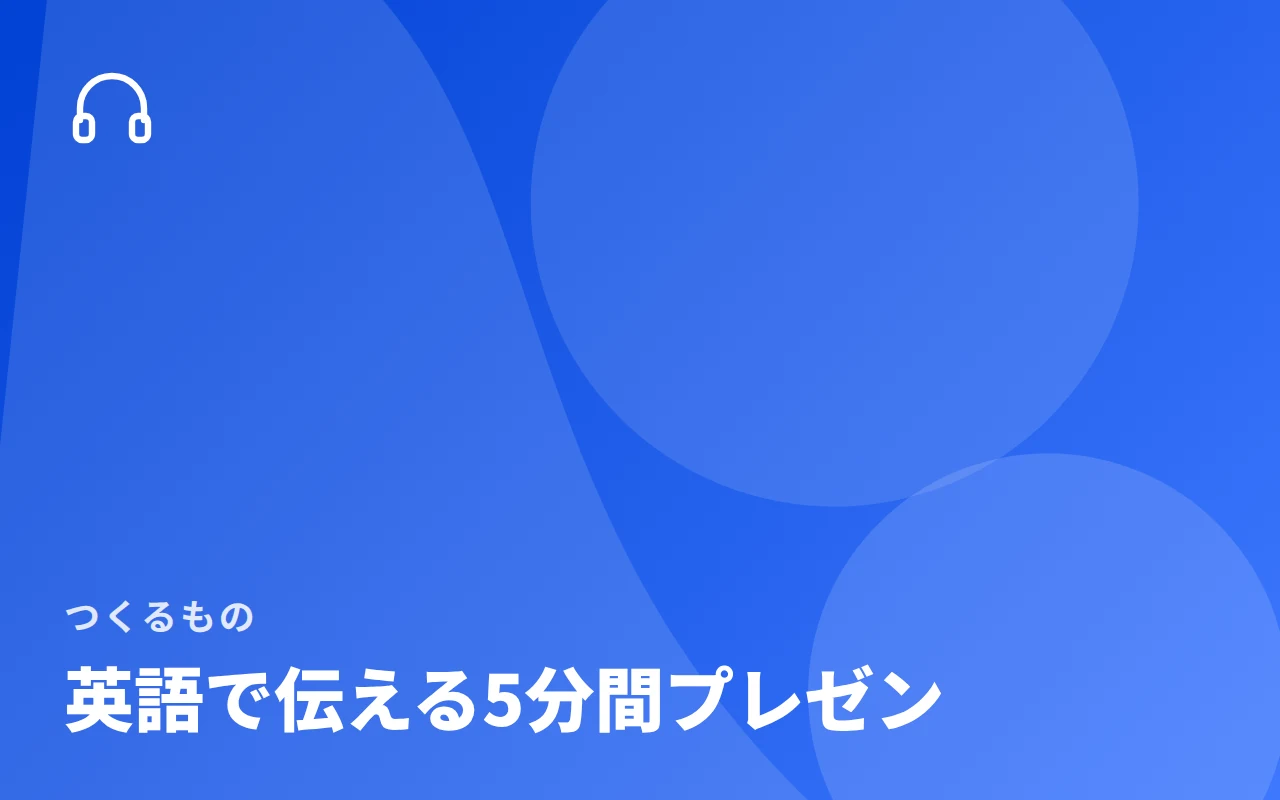
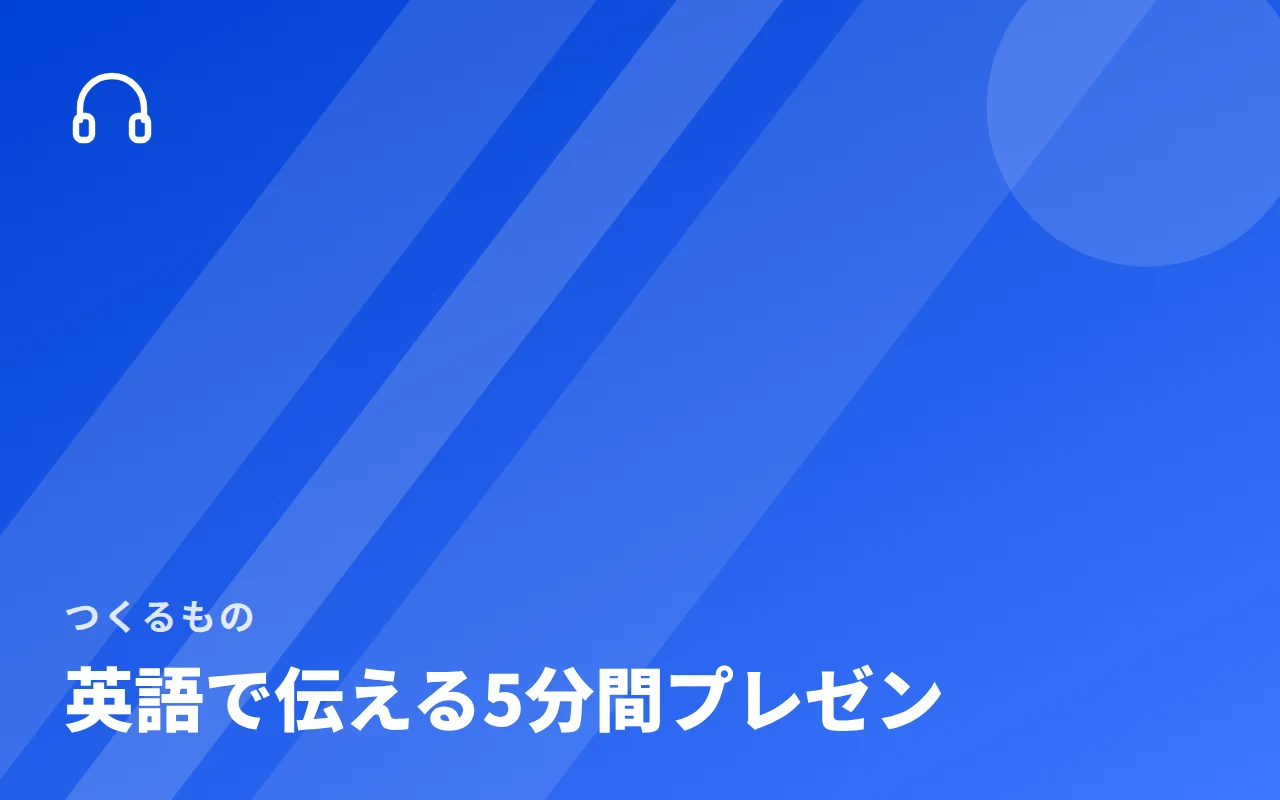
サムネイルをカテゴリの単色グラデーションに変更（形は6種類を一覧の並び順で割り当て）
- IT・英語・ビジネスが青に寄って見分けにくかったため、カテゴリごとに同じ色相の濃→淡にした
- 淡い側も白い文字が読める濃さに調整

Claude-Session: https://claude.ai/code/session_018bY9jRKEdcKYTrkj9d6ZsY

diff --git a/lp/docs/replace-list.html b/lp/docs/replace-list.html
@@ -60,7 +60,7 @@ a:focus-visible, button:focus-visible, input:focus-visible { outline: 2px solid 
 <p class="status" id="st">チェックの保存先に接続しています…</p>
 
 <section id="img" aria-labelledby="h-img"><h2 id="h-img">画像（20）</h2><p>差し替え＝仮のもの、確認＝このまま使えるか判断、確定＝このまま使う。</p>
-<div class="tbl"><table><thead><tr><th><span class="sr">完了</span></th><th>ID</th><th>優先</th><th>状態</th><th>ページ・箇所</th><th>素材と、いまの中身</th><th>対応</th><th>完了の条件</th></tr></thead><tbody><tr data-p="高" data-id="I01"><td><label class="ck" for="c-I01"><input type="checkbox" id="c-I01" data-id="I01" disabled><span class="sr">I01 を完了にする</span></label></td><td class="id">I01</td><td><span class="pr pr--h">高</span></td><td><span class="pill pill--c">確認</span></td><th scope="row">トップ<small>HERO</small></th><td><code>assets/hero.webp</code><p>AIで作った写真（候補から採用）</p></td><td>本番でもこの画像を使うか決める。ほかの案（H-A〜H-D、おすすめは H-B 写真＋成果物カード）を提示済み</td><td class="done">案を決め、写真を使う場合は生成ツールの利用規約と人物の写り（実在の人に見えないか）を確認した</td></tr><tr data-p="高" data-id="I02"><td><label class="ck" for="c-I02"><input type="checkbox" id="c-I02" data-id="I02" disabled><span class="sr">I02 を完了にする</span></label></td><td class="id">I02</td><td><span class="pr pr--h">高</span></td><td><span class="pill pill--o">確定</span></td><th scope="row">ポートフォリオ・はじめての方へ<small>見出し／SHOW／例</small></th><td><code>assets/portfolio/*.webp（12枚）</code><p>実際の画面を匿名化したもの（X風ニックネーム）</p></td><td>そのまま使用（10/8 に確定）</td><td class="done">Wix に入れ、表示を確認した</td></tr><tr data-p="高" data-id="I03"><td><label class="ck" for="c-I03"><input type="checkbox" id="c-I03" data-id="I03" disabled><span class="sr">I03 を完了にする</span></label></td><td class="id">I03</td><td><span class="pr pr--h">高</span></td><td><span class="pill pill--w">差し替え</span></td><th scope="row">コース詳細（SNS 以外の12ページ）<small>成果物の画像</small></th><td><code>（CSS で描いた仮画像）</code><p>カテゴリ色の仮画像＋「成果物の画像（準備中）」</p></td><td>画像の型を選ぶ（D-A〜D-D、おすすめは D-B 成果物の模型。実物ができたら D-A に）→ 全コース分を用意。すべて「作例」と表示</td><td class="done">12コースすべてに成果物の画像が入り、「準備中」の表示がない</td></tr><tr data-p="高" data-id="I04"><td><label class="ck" for="c-I04"><input type="checkbox" id="c-I04" data-id="I04" disabled><span class="sr">I04 を完了にする</span></label></td><td class="id">I04</td><td><span class="pr pr--h">高</span></td><td><span class="pill pill--o">確定</span></td><th scope="row">学び方・受講成果<small>受講成果</small></th><td><code>assets/outcomes/*.webp（6枚）</code><p>見本として作った成果物の画像（各画像に「作例」と表示）</p></td><td>そのまま使用（10/8 に確定。「作例」と明記済み）</td><td class="done">Wix に入れ、各画像に「作例」が表示されている</td></tr><tr data-p="中" data-id="I05"><td><label class="ck" for="c-I05"><input type="checkbox" id="c-I05" data-id="I05" disabled><span class="sr">I05 を完了にする</span></label></td><td class="id">I05</td><td><span class="pr pr--m">中</span></td><td><span class="pill pill--o">確定</span></td><th scope="row">トップ・コースを探す・受講までの流れ<small>人気のコース／コース一覧／流れ／関連するコース</small></th><td><code>assets/thumbs/*.webp（13枚）</code><p>C-4 の背景＋「つくるもの」（成果物の名前）のサムネイル。gen_thumbs.py でコース一覧のデータから作成。成果物の名前が決まったら作り直す（T05）</p></td><td>そのまま使用。Wix ストアの商品画像にも同じ画像を入れる。コースを足したら gen_thumbs.py で作る</td><td class="done">Wix の商品画像とサイトのサムネイルが同じ画像になっている</td></tr><tr data-p="中" data-id="I06"><td><label class="ck" for="c-I06"><input type="checkbox" id="c-I06" data-id="I06" disabled><span class="sr">I06 を完了にする</span></label></td><td class="id">I06</td><td><span class="pr pr--m">中</span></td><td><span class="pill pill--w">差し替え</span></td><th scope="row">コース詳細（SNS）・ポートフォリオ<small>成果物／フィード</small></th><td><code>assets/outcomes/sns-design.webp</code><p>SNS の成果物画像（見本）</p></td><td>I03 と同じ型で用意（「作例」と表示）</td><td class="done">I03 と同じ型になっている</td></tr><tr data-p="中" data-id="I07"><td><label class="ck" for="c-I07"><input type="checkbox" id="c-I07" data-id="I07" disabled><span class="sr">I07 を完了にする</span></label></td><td class="id">I07</td><td><span class="pr pr--m">中</span></td><td><span class="pill pill--o">確定</span></td><th scope="row">コースを探す<small>特集</small></th><td><code>assets/courses/feat-slack・feat-toeic.webp</code><p>Slack×GAS・TOEIC の特集画像</p></td><td>そのまま使用（10/8 に確定）</td><td class="done">Wix に入れ、表示を確認した</td></tr><tr data-p="中" data-id="I08"><td><label class="ck" for="c-I08"><input type="checkbox" id="c-I08" data-id="I08" disabled><span class="sr">I08 を完了にする</span></label></td><td class="id">I08</td><td><span class="pr pr--m">中</span></td><td><span class="pill pill--w">差し替え</span></td><th scope="row">トップ・学びのヒント<small>記事カード</small></th><td><code>assets/journal/ai・career・sns.webp</code><p>記事のアイキャッチ（見本）</p></td><td>アイキャッチの型を選ぶ（E-A〜E-D、おすすめは E-B キーワード型）→ 記事ごとに作る</td><td class="done">トップと学びのヒントに出る記事が、実際の記事のアイキャッチになっている</td></tr><tr data-p="中" data-id="I09"><td><label class="ck" for="c-I09"><input type="checkbox" id="c-I09" data-id="I09" disabled><span class="sr">I09 を完了にする</span></label></td><td class="id">I09</td><td><span class="pr pr--m">中</span></td><td><span class="pill pill--w">差し替え</span></td><th scope="row">学びのヒント<small>アクセスの多い記事／評価の高い記事／最新記事</small></th><td><code>assets/outcomes・how・portfolio の画像</code><p>記事のアイキャッチの代わりに、成果物・学び方・ポートフォリオの画像を仮で使用</p></td><td>当面は E-C（同じ枠に入れて「仮の画像」と表示）、記事を公開するときに I08 の型へ</td><td class="done">ほかのページの画像を流用しているカードがない</td></tr><tr data-p="中" data-id="I10"><td><label class="ck" for="c-I10"><input type="checkbox" id="c-I10" data-id="I10" disabled><span class="sr">I10 を完了にする</span></label></td><td class="id">I10</td><td><span class="pr pr--m">中</span></td><td><span class="pill pill--c">確認</span></td><th scope="row">無料相談・資料請求<small>パンフレットのタブ</small></th><td><code>assets/pamphlet/cover.webp</code><p>パンフレットの表紙</p></td><td>最新版のパンフレットの表紙か確認</td><td class="done">ダウンロードできる PDF と同じ表紙になっている</td></tr><tr data-p="中" data-id="I11"><td><label class="ck" for="c-I11"><input type="checkbox" id="c-I11" data-id="I11" disabled><span class="sr">I11 を完了にする</span></label></td><td class="id">I11</td><td><span class="pr pr--m">中</span></td><td><span class="pill pill--w">差し替え</span></td><th scope="row">お役立ち資料<small>新着／一覧</small></th><td><code>（CSS で描いた表紙）</code><p>資料名を書いた色違いの仮の表紙</p></td><td>実際の資料の表紙に</td><td class="done">掲載する資料すべてに実際の表紙が入っている</td></tr><tr data-p="中" data-id="I12"><td><label class="ck" for="c-I12"><input type="checkbox" id="c-I12" data-id="I12" disabled><span class="sr">I12 を完了にする</span></label></td><td class="id">I12</td><td><span class="pr pr--m">中</span></td><td><span class="pill pill--c">確認</span></td><th scope="row">数字の根拠<small>満足度・コース数</small></th><td><code>（SVG で描いたグラフ）</code><p>レーダーチャートとカテゴリ別の棒グラフ</p></td><td>本番の数字に変えたら作り直す</td><td class="done">グラフの値が、表と本文の数字と一致している</td></tr><tr data-p="中" data-id="I13"><td><label class="ck" for="c-I13"><input type="checkbox" id="c-I13" data-id="I13" disabled><span class="sr">I13 を完了にする</span></label></td><td class="id">I13</td><td><span class="pr pr--m">中</span></td><td><span class="pill pill--w">差し替え</span></td><th scope="row">全ページ<small>SNS で共有したときの画像</small></th><td><code>（なし）</code><p>OGP 画像がない</p></td><td>1200×630 の画像を新しく作る</td><td class="done">トップと主要ページで、SNS に URL を貼ると画像が表示される</td></tr><tr data-p="低" data-id="I14"><td><label class="ck" for="c-I14"><input type="checkbox" id="c-I14" data-id="I14" disabled><span class="sr">I14 を完了にする</span></label></td><td class="id">I14</td><td><span class="pr pr--l">低</span></td><td><span class="pill pill--c">確認</span></td><th scope="row">トップ<small>04 ポートフォリオ</small></th><td><code>assets/courses/ai・marketing.webp</code><p>ポートフォリオ画面の中のコース画像</p></td><td>I05 を差し替えたら同じ画像にそろえる</td><td class="done">コースのサムネイルと同じ画像になっている</td></tr><tr data-p="低" data-id="I15"><td><label class="ck" for="c-I15"><input type="checkbox" id="c-I15" data-id="I15" disabled><span class="sr">I15 を完了にする</span></label></td><td class="id">I15</td><td><span class="pr pr--l">低</span></td><td><span class="pill pill--c">確認</span></td><th scope="row">学び方・受講成果<small>4ステップ</small></th><td><code>assets/how/step-01〜04.webp</code><p>学びの4ステップの画面イメージ</p></td><td>実際の受講画面に近いか確認</td><td class="done">実際の画面と大きく違わないと確認した</td></tr><tr data-p="低" data-id="I16"><td><label class="ck" for="c-I16"><input type="checkbox" id="c-I16" data-id="I16" disabled><span class="sr">I16 を完了にする</span></label></td><td class="id">I16</td><td><span class="pr pr--l">低</span></td><td><span class="pill pill--w">差し替え</span></td><th scope="row">記事ページ（見本）<small>冒頭・著者</small></th><td><code>（「写真」の枠）</code><p>著者・監修者の写真の枠</p></td><td>著者の写真を用意（なければ枠ごと外す）</td><td class="done">写真が入っている、または枠がない</td></tr><tr data-p="低" data-id="I17"><td><label class="ck" for="c-I17"><input type="checkbox" id="c-I17" data-id="I17" disabled><span class="sr">I17 を完了にする</span></label></td><td class="id">I17</td><td><span class="pr pr--l">低</span></td><td><span class="pill pill--o">確定</span></td><th scope="row">はじめての方へ<small>ABOUT／FOR YOU</small></th><td><code>assets/illust/about-community・for-you-1〜3.webp</code><p>作成したイラスト</p></td><td>そのまま使用</td><td class="done">Wix に入れ、表示を確認した</td></tr><tr data-p="低" data-id="I18"><td><label class="ck" for="c-I18"><input type="checkbox" id="c-I18" data-id="I18" disabled><span class="sr">I18 を完了にする</span></label></td><td class="id">I18</td><td><span class="pr pr--l">低</span></td><td><span class="pill pill--o">確定</span></td><th scope="row">全ページ<small>NEXT STEP</small></th><td><code>assets/illust/next-zoom.webp</code><p>オンライン相談の画面とパンフレットのイラスト（17か所で共通）</p></td><td>そのまま使用</td><td class="done">Wix に入れ、表示を確認した</td></tr><tr data-p="低" data-id="I19"><td><label class="ck" for="c-I19"><input type="checkbox" id="c-I19" data-id="I19" disabled><span class="sr">I19 を完了にする</span></label></td><td class="id">I19</td><td><span class="pr pr--l">低</span></td><td><span class="pill pill--o">確定</span></td><th scope="row">全ページ<small>ヘッダー・フッター</small></th><td><code>assets/academy_logo_blue_trim.png</code><p>ロゴ</p></td><td>そのまま使用（SVG があれば SVG）</td><td class="done">Wix に入れ、表示を確認した</td></tr><tr data-p="低" data-id="I20"><td><label class="ck" for="c-I20"><input type="checkbox" id="c-I20" data-id="I20" disabled><span class="sr">I20 を完了にする</span></label></td><td class="id">I20</td><td><span class="pr pr--l">低</span></td><td><span class="pill pill--o">確定</span></td><th scope="row">数字の根拠<small>自由回答</small></th><td><code>assets/avatars/*.svg（3種）</code><p>用意いただいたアイコン</p></td><td>そのまま使用</td><td class="done">Wix に入れ、表示を確認した</td></tr></tbody></table></div></section>
+<div class="tbl"><table><thead><tr><th><span class="sr">完了</span></th><th>ID</th><th>優先</th><th>状態</th><th>ページ・箇所</th><th>素材と、いまの中身</th><th>対応</th><th>完了の条件</th></tr></thead><tbody><tr data-p="高" data-id="I01"><td><label class="ck" for="c-I01"><input type="checkbox" id="c-I01" data-id="I01" disabled><span class="sr">I01 を完了にする</span></label></td><td class="id">I01</td><td><span class="pr pr--h">高</span></td><td><span class="pill pill--c">確認</span></td><th scope="row">トップ<small>HERO</small></th><td><code>assets/hero.webp</code><p>AIで作った写真（候補から採用）</p></td><td>本番でもこの画像を使うか決める。ほかの案（H-A〜H-D、おすすめは H-B 写真＋成果物カード）を提示済み</td><td class="done">案を決め、写真を使う場合は生成ツールの利用規約と人物の写り（実在の人に見えないか）を確認した</td></tr><tr data-p="高" data-id="I02"><td><label class="ck" for="c-I02"><input type="checkbox" id="c-I02" data-id="I02" disabled><span class="sr">I02 を完了にする</span></label></td><td class="id">I02</td><td><span class="pr pr--h">高</span></td><td><span class="pill pill--o">確定</span></td><th scope="row">ポートフォリオ・はじめての方へ<small>見出し／SHOW／例</small></th><td><code>assets/portfolio/*.webp（12枚）</code><p>実際の画面を匿名化したもの（X風ニックネーム）</p></td><td>そのまま使用（10/8 に確定）</td><td class="done">Wix に入れ、表示を確認した</td></tr><tr data-p="高" data-id="I03"><td><label class="ck" for="c-I03"><input type="checkbox" id="c-I03" data-id="I03" disabled><span class="sr">I03 を完了にする</span></label></td><td class="id">I03</td><td><span class="pr pr--h">高</span></td><td><span class="pill pill--w">差し替え</span></td><th scope="row">コース詳細（SNS 以外の12ページ）<small>成果物の画像</small></th><td><code>（CSS で描いた仮画像）</code><p>カテゴリ色の仮画像＋「成果物の画像（準備中）」</p></td><td>画像の型を選ぶ（D-A〜D-D、おすすめは D-B 成果物の模型。実物ができたら D-A に）→ 全コース分を用意。すべて「作例」と表示</td><td class="done">12コースすべてに成果物の画像が入り、「準備中」の表示がない</td></tr><tr data-p="高" data-id="I04"><td><label class="ck" for="c-I04"><input type="checkbox" id="c-I04" data-id="I04" disabled><span class="sr">I04 を完了にする</span></label></td><td class="id">I04</td><td><span class="pr pr--h">高</span></td><td><span class="pill pill--o">確定</span></td><th scope="row">学び方・受講成果<small>受講成果</small></th><td><code>assets/outcomes/*.webp（6枚）</code><p>見本として作った成果物の画像（各画像に「作例」と表示）</p></td><td>そのまま使用（10/8 に確定。「作例」と明記済み）</td><td class="done">Wix に入れ、各画像に「作例」が表示されている</td></tr><tr data-p="中" data-id="I05"><td><label class="ck" for="c-I05"><input type="checkbox" id="c-I05" data-id="I05" disabled><span class="sr">I05 を完了にする</span></label></td><td class="id">I05</td><td><span class="pr pr--m">中</span></td><td><span class="pill pill--o">確定</span></td><th scope="row">トップ・コースを探す・受講までの流れ<small>人気のコース／コース一覧／流れ／関連するコース</small></th><td><code>assets/thumbs/*.webp（13枚）</code><p>カテゴリの単色グラデーション＋半透明の形（6種類を並び順で）＋「つくるもの」（成果物の名前）のサムネイル。gen_thumbs.py でコース一覧のデータから作成。成果物の名前が決まったら作り直す（T05）</p></td><td>そのまま使用。Wix ストアの商品画像にも同じ画像を入れる。コースを足したら gen_thumbs.py で作る</td><td class="done">Wix の商品画像とサイトのサムネイルが同じ画像になっている</td></tr><tr data-p="中" data-id="I06"><td><label class="ck" for="c-I06"><input type="checkbox" id="c-I06" data-id="I06" disabled><span class="sr">I06 を完了にする</span></label></td><td class="id">I06</td><td><span class="pr pr--m">中</span></td><td><span class="pill pill--w">差し替え</span></td><th scope="row">コース詳細（SNS）・ポートフォリオ<small>成果物／フィード</small></th><td><code>assets/outcomes/sns-design.webp</code><p>SNS の成果物画像（見本）</p></td><td>I03 と同じ型で用意（「作例」と表示）</td><td class="done">I03 と同じ型になっている</td></tr><tr data-p="中" data-id="I07"><td><label class="ck" for="c-I07"><input type="checkbox" id="c-I07" data-id="I07" disabled><span class="sr">I07 を完了にする</span></label></td><td class="id">I07</td><td><span class="pr pr--m">中</span></td><td><span class="pill pill--o">確定</span></td><th scope="row">コースを探す<small>特集</small></th><td><code>assets/courses/feat-slack・feat-toeic.webp</code><p>Slack×GAS・TOEIC の特集画像</p></td><td>そのまま使用（10/8 に確定）</td><td class="done">Wix に入れ、表示を確認した</td></tr><tr data-p="中" data-id="I08"><td><label class="ck" for="c-I08"><input type="checkbox" id="c-I08" data-id="I08" disabled><span class="sr">I08 を完了にする</span></label></td><td class="id">I08</td><td><span class="pr pr--m">中</span></td><td><span class="pill pill--w">差し替え</span></td><th scope="row">トップ・学びのヒント<small>記事カード</small></th><td><code>assets/journal/ai・career・sns.webp</code><p>記事のアイキャッチ（見本）</p></td><td>アイキャッチの型を選ぶ（E-A〜E-D、おすすめは E-B キーワード型）→ 記事ごとに作る</td><td class="done">トップと学びのヒントに出る記事が、実際の記事のアイキャッチになっている</td></tr><tr data-p="中" data-id="I09"><td><label class="ck" for="c-I09"><input type="checkbox" id="c-I09" data-id="I09" disabled><span class="sr">I09 を完了にする</span></label></td><td class="id">I09</td><td><span class="pr pr--m">中</span></td><td><span class="pill pill--w">差し替え</span></td><th scope="row">学びのヒント<small>アクセスの多い記事／評価の高い記事／最新記事</small></th><td><code>assets/outcomes・how・portfolio の画像</code><p>記事のアイキャッチの代わりに、成果物・学び方・ポートフォリオの画像を仮で使用</p></td><td>当面は E-C（同じ枠に入れて「仮の画像」と表示）、記事を公開するときに I08 の型へ</td><td class="done">ほかのページの画像を流用しているカードがない</td></tr><tr data-p="中" data-id="I10"><td><label class="ck" for="c-I10"><input type="checkbox" id="c-I10" data-id="I10" disabled><span class="sr">I10 を完了にする</span></label></td><td class="id">I10</td><td><span class="pr pr--m">中</span></td><td><span class="pill pill--c">確認</span></td><th scope="row">無料相談・資料請求<small>パンフレットのタブ</small></th><td><code>assets/pamphlet/cover.webp</code><p>パンフレットの表紙</p></td><td>最新版のパンフレットの表紙か確認</td><td class="done">ダウンロードできる PDF と同じ表紙になっている</td></tr><tr data-p="中" data-id="I11"><td><label class="ck" for="c-I11"><input type="checkbox" id="c-I11" data-id="I11" disabled><span class="sr">I11 を完了にする</span></label></td><td class="id">I11</td><td><span class="pr pr--m">中</span></td><td><span class="pill pill--w">差し替え</span></td><th scope="row">お役立ち資料<small>新着／一覧</small></th><td><code>（CSS で描いた表紙）</code><p>資料名を書いた色違いの仮の表紙</p></td><td>実際の資料の表紙に</td><td class="done">掲載する資料すべてに実際の表紙が入っている</td></tr><tr data-p="中" data-id="I12"><td><label class="ck" for="c-I12"><input type="checkbox" id="c-I12" data-id="I12" disabled><span class="sr">I12 を完了にする</span></label></td><td class="id">I12</td><td><span class="pr pr--m">中</span></td><td><span class="pill pill--c">確認</span></td><th scope="row">数字の根拠<small>満足度・コース数</small></th><td><code>（SVG で描いたグラフ）</code><p>レーダーチャートとカテゴリ別の棒グラフ</p></td><td>本番の数字に変えたら作り直す</td><td class="done">グラフの値が、表と本文の数字と一致している</td></tr><tr data-p="中" data-id="I13"><td><label class="ck" for="c-I13"><input type="checkbox" id="c-I13" data-id="I13" disabled><span class="sr">I13 を完了にする</span></label></td><td class="id">I13</td><td><span class="pr pr--m">中</span></td><td><span class="pill pill--w">差し替え</span></td><th scope="row">全ページ<small>SNS で共有したときの画像</small></th><td><code>（なし）</code><p>OGP 画像がない</p></td><td>1200×630 の画像を新しく作る</td><td class="done">トップと主要ページで、SNS に URL を貼ると画像が表示される</td></tr><tr data-p="低" data-id="I14"><td><label class="ck" for="c-I14"><input type="checkbox" id="c-I14" data-id="I14" disabled><span class="sr">I14 を完了にする</span></label></td><td class="id">I14</td><td><span class="pr pr--l">低</span></td><td><span class="pill pill--c">確認</span></td><th scope="row">トップ<small>04 ポートフォリオ</small></th><td><code>assets/courses/ai・marketing.webp</code><p>ポートフォリオ画面の中のコース画像</p></td><td>I05 を差し替えたら同じ画像にそろえる</td><td class="done">コースのサムネイルと同じ画像になっている</td></tr><tr data-p="低" data-id="I15"><td><label class="ck" for="c-I15"><input type="checkbox" id="c-I15" data-id="I15" disabled><span class="sr">I15 を完了にする</span></label></td><td class="id">I15</td><td><span class="pr pr--l">低</span></td><td><span class="pill pill--c">確認</span></td><th scope="row">学び方・受講成果<small>4ステップ</small></th><td><code>assets/how/step-01〜04.webp</code><p>学びの4ステップの画面イメージ</p></td><td>実際の受講画面に近いか確認</td><td class="done">実際の画面と大きく違わないと確認した</td></tr><tr data-p="低" data-id="I16"><td><label class="ck" for="c-I16"><input type="checkbox" id="c-I16" data-id="I16" disabled><span class="sr">I16 を完了にする</span></label></td><td class="id">I16</td><td><span class="pr pr--l">低</span></td><td><span class="pill pill--w">差し替え</span></td><th scope="row">記事ページ（見本）<small>冒頭・著者</small></th><td><code>（「写真」の枠）</code><p>著者・監修者の写真の枠</p></td><td>著者の写真を用意（なければ枠ごと外す）</td><td class="done">写真が入っている、または枠がない</td></tr><tr data-p="低" data-id="I17"><td><label class="ck" for="c-I17"><input type="checkbox" id="c-I17" data-id="I17" disabled><span class="sr">I17 を完了にする</span></label></td><td class="id">I17</td><td><span class="pr pr--l">低</span></td><td><span class="pill pill--o">確定</span></td><th scope="row">はじめての方へ<small>ABOUT／FOR YOU</small></th><td><code>assets/illust/about-community・for-you-1〜3.webp</code><p>作成したイラスト</p></td><td>そのまま使用</td><td class="done">Wix に入れ、表示を確認した</td></tr><tr data-p="低" data-id="I18"><td><label class="ck" for="c-I18"><input type="checkbox" id="c-I18" data-id="I18" disabled><span class="sr">I18 を完了にする</span></label></td><td class="id">I18</td><td><span class="pr pr--l">低</span></td><td><span class="pill pill--o">確定</span></td><th scope="row">全ページ<small>NEXT STEP</small></th><td><code>assets/illust/next-zoom.webp</code><p>オンライン相談の画面とパンフレットのイラスト（17か所で共通）</p></td><td>そのまま使用</td><td class="done">Wix に入れ、表示を確認した</td></tr><tr data-p="低" data-id="I19"><td><label class="ck" for="c-I19"><input type="checkbox" id="c-I19" data-id="I19" disabled><span class="sr">I19 を完了にする</span></label></td><td class="id">I19</td><td><span class="pr pr--l">低</span></td><td><span class="pill pill--o">確定</span></td><th scope="row">全ページ<small>ヘッダー・フッター</small></th><td><code>assets/academy_logo_blue_trim.png</code><p>ロゴ</p></td><td>そのまま使用（SVG があれば SVG）</td><td class="done">Wix に入れ、表示を確認した</td></tr><tr data-p="低" data-id="I20"><td><label class="ck" for="c-I20"><input type="checkbox" id="c-I20" data-id="I20" disabled><span class="sr">I20 を完了にする</span></label></td><td class="id">I20</td><td><span class="pr pr--l">低</span></td><td><span class="pill pill--o">確定</span></td><th scope="row">数字の根拠<small>自由回答</small></th><td><code>assets/avatars/*.svg（3種）</code><p>用意いただいたアイコン</p></td><td>そのまま使用</td><td class="done">Wix に入れ、表示を確認した</td></tr></tbody></table></div></section>
 
 <section id="tmp" aria-labelledby="h-tmp"><h2 id="h-tmp">仮置き（26）</h2><p>サイト上でオレンジの印（要確認・仮の数字など）が付いている箇所、行き先のないリンク、送信されない見本のフォームです。</p>
 <div class="tbl"><table><thead><tr><th><span class="sr">完了</span></th><th>ID</th><th>優先</th><th>分類</th><th>ページ・箇所</th><th>いまの表示</th><th>必要なもの</th><th>完了の条件</th></tr></thead><tbody><tr data-p="高" data-id="T01"><td><label class="ck" for="c-T01"><input type="checkbox" id="c-T01" data-id="T01" disabled><span class="sr">T01 を完了にする</span></label></td><td class="id">T01</td><td><span class="pr pr--h">高</span></td><td><span class="tag">数字</span></td><th scope="row">トップ<small>HERO の実績</small></th><td>「2026年◯月時点 要確認」「受講生アンケート・回答◯名 要確認」</td><td>数字の根拠ページと同じ値にそろえる</td><td class="done">ヒーローと数字の根拠ページの時点・回答数が一致し、「◯」「要確認」がない</td></tr><tr data-p="高" data-id="T02"><td><label class="ck" for="c-T02"><input type="checkbox" id="c-T02" data-id="T02" disabled><span class="sr">T02 を完了にする</span></label></td><td class="id">T02</td><td><span class="pr pr--h">高</span></td><td><span class="tag">数字</span></td><th scope="row">数字の根拠<small>平均満足度</small></th><td>総合4.2・5項目の平均・期間・回答128名（回答率42％）＝すべて仮</td><td>アンケートの実際の集計</td><td class="done">すべて実際の集計値になり、「仮の数字」の印がない</td></tr><tr data-p="高" data-id="T03"><td><label class="ck" for="c-T03"><input type="checkbox" id="c-T03" data-id="T03" disabled><span class="sr">T03 を完了にする</span></label></td><td class="id">T03</td><td><span class="pr pr--h">高</span></td><td><span class="tag">見本</span></td><th scope="row">数字の根拠<small>自由回答3件</small></th><td>声とニックネームは見本</td><td>本人の了承を得た実際の回答（集まらなければセクションごと外す）</td><td class="done">実際の回答に差し替えた、またはセクションがない（見本の声を公開しない）</td></tr><tr data-p="高" data-id="T04"><td><label class="ck" for="c-T04"><input type="checkbox" id="c-T04" data-id="T04" disabled><span class="sr">T04 を完了にする</span></label></td><td class="id">T04</td><td><span class="pr pr--h">高</span></td><td><span class="tag">価格</span></td><th scope="row">トップ・コースを探す・コース詳細<small>SNSマーケティング実践・生成AI 業務改善・TOEIC 700点</small></th><td>「¥—」（価格の確定待ち）</td><td>税込価格（ほかの10コースは今のサイトの価格を表示中）</td><td class="done">全コースに税込価格が入り、ストアの商品価格と一致している</td></tr><tr data-p="高" data-id="T05"><td><label class="ck" for="c-T05"><input type="checkbox" id="c-T05" data-id="T05" disabled><span class="sr">T05 を完了にする</span></label></td><td class="id">T05</td><td><span class="pr pr--h">高</span></td><td><span class="tag">コース</span></td><th scope="row">コース詳細（12ページ）<small>成果物</small></th><td>成果物の名前（例）と仮画像</td><td>各コースで完成する成果物の名前と画像</td><td class="done">12コースで成果物の名前が確定し、「（例）」「仮」の印がない</td></tr><tr data-p="高" data-id="T06"><td><label class="ck" for="c-T06"><input type="checkbox" id="c-T06" data-id="T06" disabled><span class="sr">T06 を完了にする</span></label></td><td class="id">T06</td><td><span class="pr pr--h">高</span></td><td><span class="tag">リンク</span></td><th scope="row">全ページ<small>ヘッダーの「ログイン」</small></th><td>/login（行き先なし）</td><td>ログインの URL</td><td class="done">全ページでログインを押すとログイン画面が開く</td></tr><tr data-p="高" data-id="T07"><td><label class="ck" for="c-T07"><input type="checkbox" id="c-T07" data-id="T07" disabled><span class="sr">T07 を完了にする</span></label></td><td class="id">T07</td><td><span class="pr pr--h">高</span></td><td><span class="tag">リンク</span></td><th scope="row">コース詳細（13ページ）<small>「このコースを受講する」・スマホの固定バー</small></th><td>#（行き先なし）</td><td>カート（ストアの商品）の URL</td><td class="done">13ページすべてで、押すと正しい商品のカートに入る</td></tr><tr data-p="高" data-id="T08"><td><label class="ck" for="c-T08"><input type="checkbox" id="c-T08" data-id="T08" disabled><span class="sr">T08 を完了にする</span></label></td><td class="id">T08</td><td><span class="pr pr--h">高</span></td><td><span class="tag">リンク</span></td><th scope="row">全ページ<small>公式LINE のボタン・浮かぶボタン</small></th><td>はじめての方への LINE 欄に移動するだけ</td><td>友だち追加の URL</td><td class="done">LINE のボタンを押すと友だち追加の画面が開く</td></tr><tr data-p="高" data-id="T09"><td><label class="ck" for="c-T09"><input type="checkbox" id="c-T09" data-id="T09" disabled><span class="sr">T09 を完了にする</span></label></td><td class="id">T09</td><td><span class="pr pr--h">高</span></td><td><span class="tag">リンク</span></td><th scope="row">無料相談・資料請求<small>「パンフレット（PDF）をダウンロード」</small></th><td>#（行き先なし）</td><td>パンフレットの PDF</td><td class="done">送信後に最新版のパンフレットをダウンロードできる</td></tr><tr data-p="高" data-id="T10"><td><label class="ck" for="c-T10"><input type="checkbox" id="c-T10" data-id="T10" disabled><span class="sr">T10 を完了にする</span></label></td><td class="id">T10</td><td><span class="pr pr--h">高</span></td><td><span class="tag">機能</span></td><th scope="row">無料相談・資料請求<small>日時の表</small></th><td>空き状況は表示例</td><td>予約の仕組み（Wix ブッキングなど）と予約枠</td><td class="done">実際の空き枠から予約でき、確認メールと Zoom の URL が届く</td></tr><tr data-p="高" data-id="T11"><td><label class="ck" for="c-T11"><input type="checkbox" id="c-T11" data-id="T11" disabled><span class="sr">T11 を完了にする</span></label></td><td class="id">T11</td><td><span class="pr pr--h">高</span></td><td><span class="tag">機能</span></td><th scope="row">無料相談・資料請求<small>パンフレット・お問い合わせのフォーム</small></th><td>送信されない見本（「※このページは見本です」）</td><td>受信先と自動メール</td><td class="done">送信すると連絡先に入り、自動返信と担当者への通知が届く。「見本」の表示がない</td></tr><tr data-p="高" data-id="T12"><td><label class="ck" for="c-T12"><input type="checkbox" id="c-T12" data-id="T12" disabled><span class="sr">T12 を完了にする</span></label></td><td class="id">T12</td><td><span class="pr pr--h">高</span></td><td><span class="tag">法務</span></td><th scope="row">特商法・プライバシー・利用規約<small>末尾</small></th><td>制定日・最終更新日「2026年◯月◯日」</td><td>公開日</td><td class="done">3ページに日付が入っている（専門家の確認も済み）</td></tr><tr data-p="中" data-id="T13"><td><label class="ck" for="c-T13"><input type="checkbox" id="c-T13" data-id="T13" disabled><span class="sr">T13 を完了にする</span></label></td><td class="id">T13</td><td><span class="pr pr--m">中</span></td><td><span class="tag">数字</span></td><th scope="row">数字の根拠<small>コース数</small></th><td>12コース（Slack×GAS は数えない）</td><td>Slack×GAS を含めるかの判断</td><td class="done">判断が決まり、ヒーローと根拠ページの数え方が一致している</td></tr><tr data-p="中" data-id="T14"><td><label class="ck" for="c-T14"><input type="checkbox" id="c-T14" data-id="T14" disabled><span class="sr">T14 を完了にする</span></label></td><td class="id">T14</td><td><span class="pr pr--m">中</span></td><td><span class="tag">数字</span></td><th scope="row">コースを探す<small>コースを比べる</small></th><td>「確認中」「※」の項目</td><td>各コースの実際の値</td><td class="done">比較表に「確認中」「※」がない</td></tr><tr data-p="中" data-id="T15"><td><label class="ck" for="c-T15"><input type="checkbox" id="c-T15" data-id="T15" disabled><span class="sr">T15 を完了にする</span></label></td><td class="id">T15</td><td><span class="pr pr--m">中</span></td><td><span class="tag">コース</span></td><th scope="row">コース詳細（13ページ）<small>学習の流れ</small></th><td>販売中の8コースは今のサイトの章立て（カリキュラム）を表示。SNS は8週の見本、生成AI・TOEIC・初級編 ChatGPT・プロジェクトマネジメントは共通の4ステップ（「内容は仮」）</td><td>残り5コースの実際の流れ</td><td class="done">13コースで流れが確定し、「内容は仮」の印がない</td></tr><tr data-p="中" data-id="T16"><td><label class="ck" for="c-T16"><input type="checkbox" id="c-T16" data-id="T16" disabled><span class="sr">T16 を完了にする</span></label></td><td class="id">T16</td><td><span class="pr pr--m">中</span></td><td><span class="tag">コース</span></td><th scope="row">コース詳細・コースを探す（2コース）<small>学習の目安</small></th><td>販売中の8コースは今のサイトの章数・動画時間を表示。初級編 ChatGPT・プロジェクトマネジメントは空欄（今のサイトでは販売停止）</td><td>2コースを続けるか、続けるなら章数と時間</td><td class="done">全コースに学習の目安が入っている</td></tr><tr data-p="中" data-id="T17"><td><label class="ck" for="c-T17"><input type="checkbox" id="c-T17" data-id="T17" disabled><span class="sr">T17 を完了にする</span></label></td><td class="id">T17</td><td><span class="pr pr--m">中</span></td><td><span class="tag">リンク</span></td><th scope="row">全ページ<small>フッターの SNS アイコン8つ</small></th><td>#（行き先なし）</td><td>各 SNS の URL。使っていないものは外す</td><td class="done">残したアイコンすべてが正しいアカウントに移動する（Wix の初期リンクがない）</td></tr><tr data-p="中" data-id="T18"><td><label class="ck" for="c-T18"><input type="checkbox" id="c-T18" data-id="T18" disabled><span class="sr">T18 を完了にする</span></label></td><td class="id">T18</td><td><span class="pr pr--m">中</span></td><td><span class="tag">リンク</span></td><th scope="row">ポートフォリオ<small>「無料で登録する」（2か所）</small></th><td>同じページの「はじめかた」に移動するだけ</td><td>登録ページの URL</td><td class="done">押すと登録ページが開く</td></tr><tr data-p="中" data-id="T19"><td><label class="ck" for="c-T19"><input type="checkbox" id="c-T19" data-id="T19" disabled><span class="sr">T19 を完了にする</span></label></td><td class="id">T19</td><td><span class="pr pr--m">中</span></td><td><span class="tag">リンク</span></td><th scope="row">トップ・学びのヒント・記事<small>記事11本</small></th><td>/blog/〜（行き先なし）</td><td>今の Wix ブログの記事 URL</td><td class="done">記事カードを押すと実際の記事が開く</td></tr><tr data-p="中" data-id="T20"><td><label class="ck" for="c-T20"><input type="checkbox" id="c-T20" data-id="T20" disabled><span class="sr">T20 を完了にする</span></label></td><td class="id">T20</td><td><span class="pr pr--m">中</span></td><td><span class="tag">リンク</span></td><th scope="row">お役立ち資料<small>ダウンロード</small></th><td>PDF の URL なし</td><td>各資料の PDF</td><td class="done">掲載するすべての資料がダウンロードできる</td></tr><tr data-p="中" data-id="T21"><td><label class="ck" for="c-T21"><input type="checkbox" id="c-T21" data-id="T21" disabled><span class="sr">T21 を完了にする</span></label></td><td class="id">T21</td><td><span class="pr pr--m">中</span></td><td><span class="tag">機能</span></td><th scope="row">お役立ち資料<small>受け取りのフォーム</small></th><td>送信先なし</td><td>受け取り方式と送信先（エンジニアと相談）</td><td class="done">方式が決まり、送信すると連絡先に入る</td></tr><tr data-p="中" data-id="T22"><td><label class="ck" for="c-T22"><input type="checkbox" id="c-T22" data-id="T22" disabled><span class="sr">T22 を完了にする</span></label></td><td class="id">T22</td><td><span class="pr pr--m">中</span></td><td><span class="tag">見本</span></td><th scope="row">学びのヒント<small>記事一覧</small></th><td>記事タイトル・日付・評価は見本</td><td>実際の記事</td><td class="done">一覧に実際の記事だけが並ぶ</td></tr><tr data-p="中" data-id="T23"><td><label class="ck" for="c-T23"><input type="checkbox" id="c-T23" data-id="T23" disabled><span class="sr">T23 を完了にする</span></label></td><td class="id">T23</td><td><span class="pr pr--m">中</span></td><td><span class="tag">見本</span></td><th scope="row">記事ページ<small>本文・著者</small></th><td>本文は見本、著者名・監修者名・紹介文は仮</td><td>実際の記事と著者</td><td class="done">記事テンプレートに実際の著者情報が入る</td></tr><tr data-p="中" data-id="T24"><td><label class="ck" for="c-T24"><input type="checkbox" id="c-T24" data-id="T24" disabled><span class="sr">T24 を完了にする</span></label></td><td class="id">T24</td><td><span class="pr pr--m">中</span></td><td><span class="tag">見本</span></td><th scope="row">お役立ち資料<small>資料6件</small></th><td>資料名・説明・ページ数は見本</td><td>実際の資料</td><td class="done">一覧に実際の資料だけが並ぶ</td></tr><tr data-p="低" data-id="T25"><td><label class="ck" for="c-T25"><input type="checkbox" id="c-T25" data-id="T25" disabled><span class="sr">T25 を完了にする</span></label></td><td class="id">T25</td><td><span class="pr pr--l">低</span></td><td><span class="tag">数字</span></td><th scope="row">学びのヒント<small>記事カード</small></th><td>いいね・役に立ったの数（142／128／118 など）、日付</td><td>実際の数字（出さない選択も可）</td><td class="done">実際の数字になった、または数字を出さない</td></tr><tr data-p="低" data-id="T26"><td><label class="ck" for="c-T26"><input type="checkbox" id="c-T26" data-id="T26" disabled><span class="sr">T26 を完了にする</span></label></td><td class="id">T26</td><td><span class="pr pr--l">低</span></td><td><span class="tag">確認</span></td><th scope="row">無料相談・資料請求<small>「顔を出さないといけませんか？」</small></th><td>「カメラはオフでも参加できます」に要確認の印</td><td>カメラオフで参加できるか</td><td class="done">回答が確定し、要確認の印がない</td></tr></tbody></table></div></section>

diff --git a/lp/scripts/gen_replace_list.py b/lp/scripts/gen_replace_list.py
@@ -11,7 +11,7 @@ IMG = [
  ('I02', '高', 'ポートフォリオ・はじめての方へ', '見出し／SHOW／例', 'assets/portfolio/*.webp（12枚）', '実際の画面を匿名化したもの（X風ニックネーム）', '確定', 'そのまま使用（10/8 に確定）', 'Wix に入れ、表示を確認した'),
  ('I03', '高', 'コース詳細（SNS 以外の12ページ）', '成果物の画像', '（CSS で描いた仮画像）', 'カテゴリ色の仮画像＋「成果物の画像（準備中）」', '差し替え', '画像の型を選ぶ（D-A〜D-D、おすすめは D-B 成果物の模型。実物ができたら D-A に）→ 全コース分を用意。すべて「作例」と表示', '12コースすべてに成果物の画像が入り、「準備中」の表示がない'),
  ('I04', '高', '学び方・受講成果', '受講成果', 'assets/outcomes/*.webp（6枚）', '見本として作った成果物の画像（各画像に「作例」と表示）', '確定', 'そのまま使用（10/8 に確定。「作例」と明記済み）', 'Wix に入れ、各画像に「作例」が表示されている'),
- ('I05', '中', 'トップ・コースを探す・受講までの流れ', '人気のコース／コース一覧／流れ／関連するコース', 'assets/thumbs/*.webp（13枚）', 'C-4 の背景＋「つくるもの」（成果物の名前）のサムネイル。gen_thumbs.py でコース一覧のデータから作成。成果物の名前が決まったら作り直す（T05）', '確定', 'そのまま使用。Wix ストアの商品画像にも同じ画像を入れる。コースを足したら gen_thumbs.py で作る', 'Wix の商品画像とサイトのサムネイルが同じ画像になっている'),
+ ('I05', '中', 'トップ・コースを探す・受講までの流れ', '人気のコース／コース一覧／流れ／関連するコース', 'assets/thumbs/*.webp（13枚）', 'カテゴリの単色グラデーション＋半透明の形（6種類を並び順で）＋「つくるもの」（成果物の名前）のサムネイル。gen_thumbs.py でコース一覧のデータから作成。成果物の名前が決まったら作り直す（T05）', '確定', 'そのまま使用。Wix ストアの商品画像にも同じ画像を入れる。コースを足したら gen_thumbs.py で作る', 'Wix の商品画像とサイトのサムネイルが同じ画像になっている'),
  ('I06', '中', 'コース詳細（SNS）・ポートフォリオ', '成果物／フィード', 'assets/outcomes/sns-design.webp', 'SNS の成果物画像（見本）', '差し替え', 'I03 と同じ型で用意（「作例」と表示）', 'I03 と同じ型になっている'),
  ('I07', '中', 'コースを探す', '特集', 'assets/courses/feat-slack・feat-toeic.webp', 'Slack×GAS・TOEIC の特集画像', '確定', 'そのまま使用（10/8 に確定）', 'Wix に入れ、表示を確認した'),
  ('I08', '中', 'トップ・学びのヒント', '記事カード', 'assets/journal/ai・career・sns.webp', '記事のアイキャッチ（見本）', '差し替え', 'アイキャッチの型を選ぶ（E-A〜E-D、おすすめは E-B キーワード型）→ 記事ごとに作る', 'トップと学びのヒントに出る記事が、実際の記事のアイキャッチになっている'),

diff --git a/lp/scripts/gen_thumbs.py b/lp/scripts/gen_thumbs.py
@@ -13,11 +13,11 @@ CAT, C, DELIV = g['CAT'], g['C'], g['DELIV']
 # カテゴリごとのグラデーション（カテゴリ色 → ブランドの青系、3つ目は形の差し色）
 GR = {'it': ('#1E9E62', '#3E78FE', '#BFEAD3'), 'mk': ('#E46A1F', '#F29A50', '#FFD9C2'), 'en': ('#0141D4', '#3E78FE', '#B9CCFF'),
       'biz': ('#6B4FD8', '#3E78FE', '#D5CCFF'), 'cr': ('#D9467A', '#F76B38', '#F9C8D8')}
-# カテゴリの単色グラデーション（同じ色相の濃→淡）。TA_THUMBS_MODE=mono／mono-cat のときに使う
-GR_MONO = {'it': ('#1E9E62', '#4CC38A', '#BFEAD3'), 'mk': ('#E46A1F', '#F29A50', '#FFD9C2'), 'en': ('#0141D4', '#3E78FE', '#B9CCFF'),
-           'biz': ('#6B4FD8', '#9A83F0', '#D5CCFF'), 'cr': ('#D9467A', '#F07AA3', '#F9C8D8')}
+# カテゴリの単色グラデーション（同じ色相の濃→淡。淡い側も白い文字が読める濃さにしている）
+GR_MONO = {'it': ('#1E9E62', '#2FAE73', '#BFEAD3'), 'mk': ('#E46A1F', '#F29A50', '#FFD9C2'), 'en': ('#0141D4', '#3E78FE', '#B9CCFF'),
+           'biz': ('#6B4FD8', '#8A70E8', '#D5CCFF'), 'cr': ('#D9467A', '#E8608F', '#F9C8D8')}
 CAT_SHAPE = {'it': 2, 'mk': 1, 'en': 3, 'biz': 4, 'cr': 5}  # mono-cat：形もカテゴリで固定
-MODE = os.environ.get('TA_THUMBS_MODE', 'mix')  # mix＝カテゴリ色→ブランドの青（いま）
+MODE = os.environ.get('TA_THUMBS_MODE', 'mono')  # mono＝カテゴリの単色（採用）／mix＝カテゴリ色→ブランドの青（前の案）／mono-cat＝単色＋形もカテゴリで固定
 ORDER = {}  # slug → 一覧での並び順（背景の形の割り当てに使う）
 def rnd(slug): return random.Random(int(hashlib.md5(slug.encode()).hexdigest()[:8], 16))
 P = {  # 線アイコン（24×24）

diff --git a/lp/docs/TODO.md b/lp/docs/TODO.md
@@ -55,7 +55,7 @@
 ## 6. 画像の型を決める（見本ボードは lp/scripts/patterns）
 
 - [ ] トップのメイン画像：いまの写真（H-A）のままか、ほかの案（H-B 写真＋成果物カード がおすすめ）にするか
-- [x] コースのサムネイル：背景 C-4（カテゴリ色のグラデーション＋半透明の形）＋中身 X-2（つくるもの＝成果物の名前）に決定し、サイトに反映。成果物の名前が確定したら gen_thumbs.py で作り直す（lp/assets/thumbs、作り方は lp/scripts/README.md）
+- [x] コースのサムネイル：背景 C-4（カテゴリの単色グラデーション＋半透明の形を6種類、一覧の並び順で割り当て）＋中身 X-2（つくるもの＝成果物の名前）に決定し、サイトに反映。成果物の名前が確定したら gen_thumbs.py で作り直す（lp/assets/thumbs、作り方は lp/scripts/README.md）
 - [ ] コースの成果物画像：D-A〜D-D から選ぶ（おすすめ D-B 成果物の模型 → 実物ができたら D-A）。すべて「作例」と表示
 - [ ] 記事のアイキャッチ：E-A〜E-D から選ぶ（おすすめ E-B キーワード型。当面は E-C で今ある画像を仮に使う）
 - [ ] コースのラインナップ：今のサイトで販売停止中の「初級編 ChatGPT」「プロジェクトマネジメント」、今のサイトにない「SNSマーケティング実践」「生成AI 業務改善」を載せ続けるか

diff --git a/lp/scripts/README.md b/lp/scripts/README.md
@@ -28,7 +28,7 @@ bash lp/scripts/build.sh
 | `gen_legal_review.py` | 法務ページの文面レビュー用ページ（一時フォルダに legal-draft.html を書き出す） |
 | `slim_zips.py` | `downloads/` の素材 ZIP を、中身を変えずに軽くする（`pip install pyoxipng` が必要） |
 
-## コースのサムネイル（背景 C-4＋つくるもの X-2）
+## コースのサムネイル（カテゴリの単色グラデーション＋形6種類＋つくるもの）
 
 `lp/assets/thumbs/<slug>.webp`（1280×800）は、コース一覧のデータ（gen_courses.py の C）から作っています。コースを足したら、gen_courses.py の DELIV（成果物の名前）と gen_thumbs.py の ICON に1行ずつ足して、次を実行します（Node と Playwright が必要）。
 
